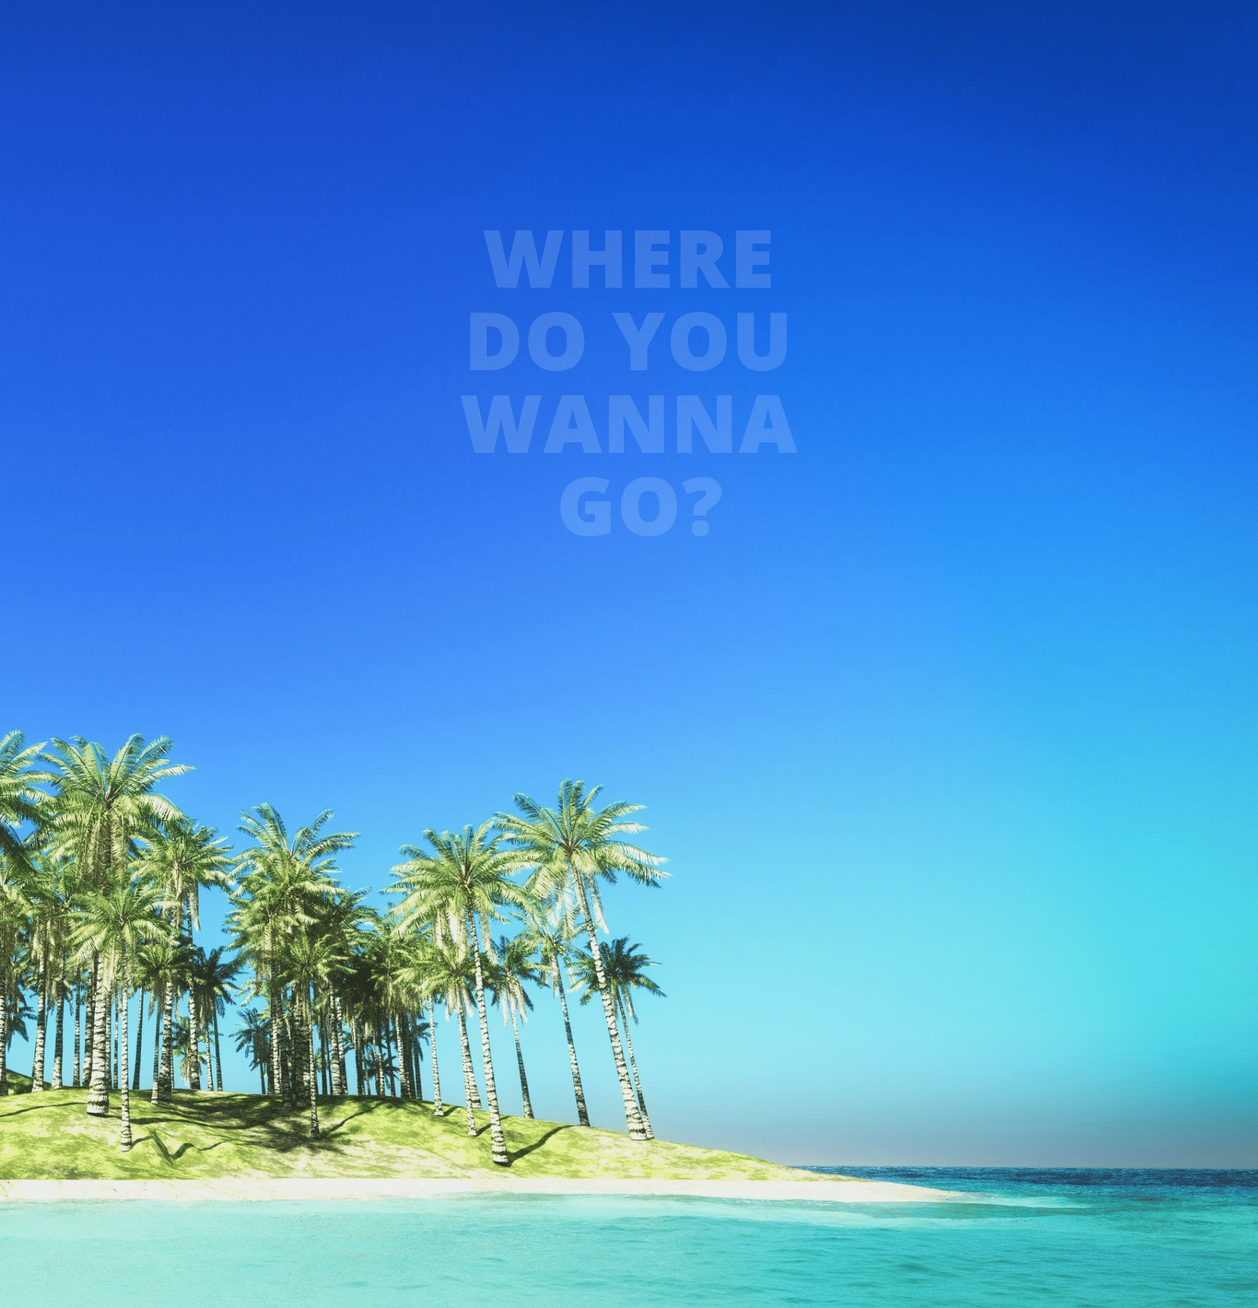
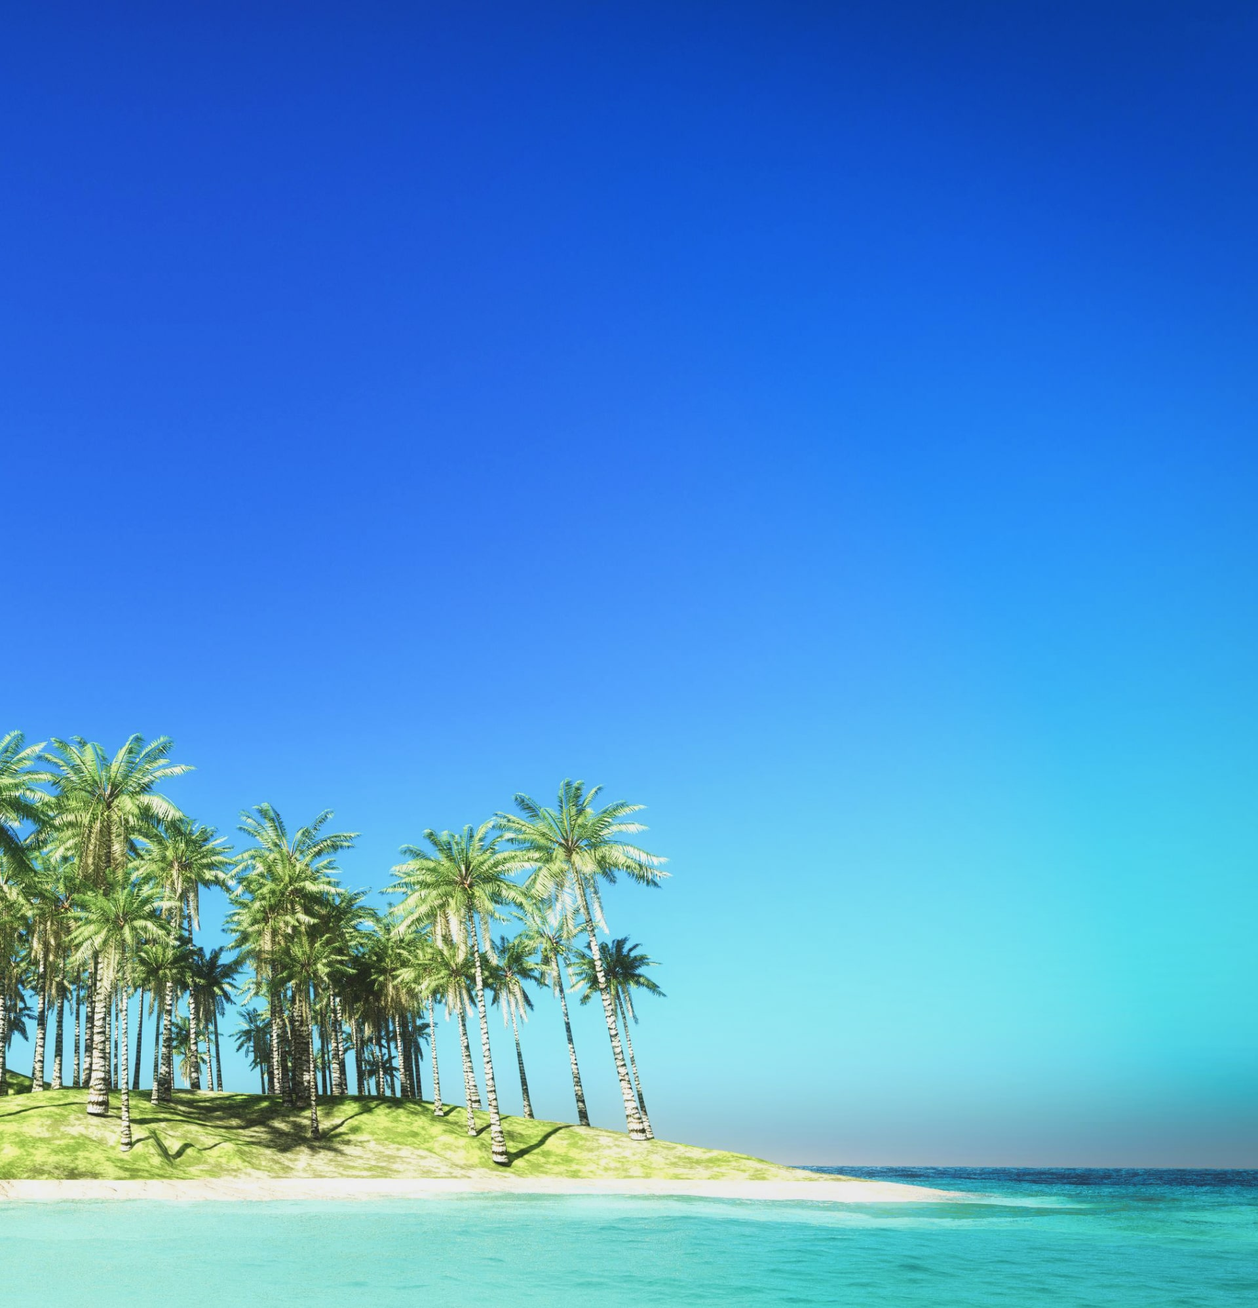
Add files via upload

Changed region(s): [[0.375, 0.1553, 0.625, 0.4349]]

diff --git a/src/css/style.min.css b/src/css/style.min.css
@@ -1,1 +1,1 @@
-*{font-family:"open Sans",sans-serif}*{margin:0;padding:0;box-sizing:border-box}.container{width:1290px;margin:0 auto}:active{outline:0}:focus{outline:0}.title{font-weight:700;font-size:42px;line-height:140%;text-align:center;text-transform:uppercase;color:#00368c;margin-bottom:30px}.title_white{color:#fff}.header{background:url(../img/bg_1.jpg) center center/cover no-repeat;min-height:850px;padding:61px 0 40px 0}.header__nav{display:flex;justify-content:flex-end}.header .link_en{display:block;width:37px;height:19px;font-weight:700;font-size:16px;text-transform:uppercase;color:#00368c;text-decoration:none;cursor:pointer;transition:.3s all}.header .link_en::after{content:url(../img/arrow.svg)}.header .link_en:hover::after{padding-left:2px}.header__title{font-weight:800;font-size:110px;text-align:center;letter-spacing:.03em;text-transform:uppercase;color:#fff;text-shadow:4px 0 0 rgba(26,66,188,.24),6px 0 0 rgba(26,66,188,.14),8px 0 0 rgba(255,255,255,.9);margin-top:270px}.header__subtitle{font-weight:400;font-size:32px;line-height:150%;text-align:center;color:#00368c}.button_wrap{position:relative;width:400px;margin:0 auto;display:flex;justify-content:center;align-items:center}.circle{position:absolute;top:10px;width:186px;height:186px;border-radius:100%;background:rgba(255,255,255,.2)}.circle_big{position:absolute;top:-30px;width:270px;height:270px;border-radius:100%;background:rgba(255,255,255,.2)}.button{display:block;position:relative;margin:57px auto 158px auto;width:398px;height:92px;background:#f6ca89;border-radius:46px;box-shadow:7px 7px 7px 0 rgba(50,50,50,.75);border-radius:46.0227px;border:none;font-weight:700;font-size:24px;line-height:120%;letter-spacing:.04em;text-transform:uppercase;color:#00368c;text-align:left;padding:0 76px;box-shadow:-5px 9px 14px 0 rgba(23,25,40,.3);transition:.3s all}.button::after{content:url(../img/arrow.svg);display:inline-block;padding-left:60px;position:absolute;top:50%;transform:translateY(-50%);transition:.3s all}.button:hover{box-shadow:none}.button:hover::after{padding-left:65px}.button:hover .circle_big{background:rgba(255,255,255,.4)}.button_submit{width:470px;height:92px;margin:0;margin-top:20px}.down{display:block;margin:68px auto 20px auto;width:80px;height:80px;border-radius:100%;border:none;background:rgba(255,255,255,.7);-webkit-backdrop-filter:blur(3px);backdrop-filter:blur(3px);transition:.3s all}.down::after{display:block;content:url(../img/arrow.svg);transform:rotate(90deg)}.down:hover{background-color:#f6ca89}.about{background:url(../img/bg2.jpg) center center/cover no-repeat;min-height:1280px;padding:0 0 40px 0}.about .container{display:flex;flex-wrap:wrap;flex:1;justify-content:flex-end}.about__wrap{width:850px;min-height:540px;margin-bottom:130px}.about__wrap__help{width:850px;height:400px;padding-top:80px;background:rgba(246,202,137,.7);border:2px solid rgba(249,226,194,.7);border-radius:32px;position:relative;z-index:1}.about__descr p{font-weight:400;font-size:18px;line-height:150%;text-align:justify;color:#00368c;margin-bottom:35px}.about__help__descr{font-weight:400;font-size:24px;line-height:150%;text-align:justify;color:#00368c;padding:5px 104px 51px 104px}.about__help__text{font-weight:700;font-size:110px;text-align:center;text-transform:uppercase;color:#fff;opacity:.75}.countries{min-height:1770px;padding-top:140px;position:relative;background:url(../img/bg_foot.jpg) center center/cover no-repeat}.countries .clouds{position:absolute;width:100%;top:-400px;z-index:0}.countries__items_wrap{height:750px}.countries__items{display:flex;justify-content:space-around}.countries__item{width:500px;display:flex;flex-direction:column;align-items:unsafe center}.countries__item__right-text{flex-direction:row;margin:10px}.countries__item__left-text{flex-direction:row-reverse;margin:10px}.countries__country{font-weight:400;font-size:24px;text-transform:uppercase;color:#fff;margin-top:10px;transition:.3s all}.countries__country_left{margin-right:20px;text-align:right}.countries__country_right{margin-left:20px}.countries__item_wrap{width:120px;height:120px;border:2px solid #fff;border-radius:100%;display:flex;justify-content:center;align-items:center;margin:10px;transition:.3s all}.countries__item_wrap img{width:100px;height:100px}.countries__item_wrap:hover{background:rgba(255,255,255,.3);border:none;width:140px;height:140px}.countries__item_wrap:hover+.countries__country{font-size:28px}.first-step{margin-top:300px;width:100%;background:url(../img/card-bg.png) left no-repeat}.first-step_wrap{display:flex;justify-content:space-around}.first-step__block{width:50%}.first-step__title{font-weight:700;font-size:42px;line-height:140%;text-transform:uppercase;color:#fff;margin:81px 0 0 0}.first-step__title span{font-weight:400}.first-step__descr{width:367px;font-weight:400;font-size:20px;line-height:150%;text-align:justify;color:#fff;margin:30px 0 0 0}.feed-form{display:flex;flex-direction:column;justify-content:start;align-items:start;width:477px;margin-left:390px}.feed-form input{width:477px;height:50px;background:0 0;margin-bottom:30px;border:none;border-bottom:1px solid #00368c;outline:0;text-align:left}.feed-form label{font-weight:400;font-size:16px;line-height:120%;letter-spacing:.1em;text-transform:uppercase;color:#00368c;text-align:left}.overlay{position:fixed;width:100%;height:100%;background-color:rgba(0,0,0,.7);top:0;display:none}.overlay #consultation{position:absolute;z-index:100;width:600px;min-height:660px;background:rgba(0,120,248,.7);border:1px solid rgba(255,255,255,.15);-webkit-backdrop-filter:blur(16px);backdrop-filter:blur(16px);border-radius:32px;top:50%;left:50%;transform:translate(-50%,-50%);padding:60px 55px 50px 55px}.overlay #consultation .feed-form{display:block;margin:0 auto}.overlay #consultation .modal__close{position:absolute;width:44px;height:44px;border-radius:100%;background-color:#f6ca89;top:-15px;right:-20px;font-size:41px;line-height:21px;color:#00368c;cursor:pointer;display:flex;justify-content:center;align-items:center}.overlay #consultation .modal__close:hover{background-color:#fff}.overlay #consultation .modal__subtitle{font-weight:600;font-size:36px;line-height:140%;text-align:center;text-transform:uppercase;color:#fff}.overlay #consultation .button_submit{width:470px;height:60px}.overlay #consultation .error{border:1px solid red}.overlay #consultation label.error{border:none;margin-bottom:15px}.overlay #consultation input,.overlay #consultation label{color:#fff}.footer{height:60px;display:flex;justify-content:center;align-items:center;background:#00368c;font-weight:400;font-size:14px;color:#fff}
+*{font-family:"open Sans",sans-serif}*{margin:0;padding:0;box-sizing:border-box}.container{width:1290px;margin:0 auto}:active{outline:0}:focus{outline:0}.title{font-weight:700;font-size:42px;line-height:1.4;text-align:center;text-transform:uppercase;color:#00368c;margin-bottom:30px}.title_white{color:#fff}.header{background:url(../img/main_bg.png) center center/cover no-repeat;min-height:850px;padding:61px 0 40px 0}.header__wrap{position:relative}.header__nav{display:flex;justify-content:flex-end}.header__clouds{position:relative;margin:0 auto}.header__clouds img{position:absolute;bottom:-110px;left:-40px;z-index:1}.header .link_en{display:block;width:37px;height:19px;font-weight:700;font-size:16px;text-transform:uppercase;color:#00368c;text-decoration:none;cursor:pointer;transition:.3s all}.header .link_en::after{content:url(../img/arrow.svg)}.header .link_en:hover::after{padding-left:2px}.header__title{margin-top:200px}.header__subtitle{font-weight:400;font-size:32px;text-align:center;color:#00368c;position:absolute;z-index:2;left:50%;transform:translateX(-50%)}.button_wrap{position:relative;width:400px;margin:50px auto 0 auto;display:flex;justify-content:center;align-items:center}.circle{position:absolute;top:10px;width:186px;height:186px;border-radius:100%;background:rgba(255,255,255,.2)}.circle_big{position:absolute;top:-30px;width:270px;height:270px;border-radius:100%;background:rgba(255,255,255,.2)}.button{display:block;position:relative;margin:57px auto 125px auto;width:398px;height:92px;background:#f6ca89;border-radius:46px;border:none;font-weight:700;font-size:24px;letter-spacing:.04em;text-transform:uppercase;color:#00368c;padding:0 76px;box-shadow:-5px 9px 14px 0 rgba(23,25,40,.3);display:flex;justify-content:space-between;align-items:center;transition:.3s all}.button img{display:inline-block;width:7px;height:12px}.button:hover{box-shadow:none}.button:hover~.circle_big{background:rgba(255,255,255,.4)}.button_submit{width:470px;height:92px;margin:0;margin-top:20px;padding:0 50px}.down{display:block;margin:0 auto 20px auto;width:80px;height:80px;border-radius:100%;border:none;background:rgba(255,255,255,.7);-webkit-backdrop-filter:blur(3px);backdrop-filter:blur(3px);transition:.3s all}.down::after{display:block;content:url(../img/arrow.svg);transform:rotate(90deg)}.down:hover{background-color:#f6ca89}.about{background:url(../img/man_bg-min.png) center center/cover no-repeat;min-height:1280px;padding:30px 0 40px 0}.about .container{display:flex;flex-wrap:wrap;flex:1;justify-content:flex-end}.about__wrap{width:850px;min-height:540px;margin-bottom:130px}.about__wrap__help{width:850px;height:400px;padding:80px 22px 0 22px;background:rgba(246,202,137,.7);border:2px solid rgba(249,226,194,.7);border-radius:32px;position:relative;z-index:1}.about__descr p{font-weight:400;font-size:18px;line-height:1.5;text-align:justify;color:#00368c;margin-bottom:22px}.about__help__descr{font-weight:400;font-size:24px;line-height:1.5;text-align:justify;color:#00368c;padding:5px 100px 0 100px}.about__help__text{position:absolute;bottom:0;line-height:.7;font-weight:700;font-size:120px;text-transform:uppercase;color:#fff}.countries{min-height:1996px;padding:140px 0 194px 0;position:relative;background:url(../img/bg_foot.jpg) center center/cover no-repeat}.countries__items_wrap{height:750px;position:relative}.countries__fon-text{position:absolute;width:550px;font-weight:800;font-size:120px;line-height:1.05;text-align:center;letter-spacing:.03em;text-transform:uppercase;color:#fff;opacity:.15;left:50%;transform:translate(-50%);top:10%;z-index:1}.countries__items{display:flex;justify-content:space-around}.countries__item{width:500px;display:flex;flex-direction:column;align-items:unsafe center}.countries__item__right-text{flex-direction:row;margin:10px}.countries__item__left-text{flex-direction:row-reverse;margin:10px}.countries__country{font-weight:400;font-size:24px;text-transform:uppercase;color:#fff;margin-top:10px;transition:.3s all}.countries__country_left{margin-right:20px;text-align:right}.countries__country_right{margin-left:20px}.countries__item_wrap{width:120px;height:120px;border:2px solid #fff;border-radius:100%;display:flex;justify-content:center;align-items:center;margin:10px;transition:.3s all;cursor:pointer}.countries__item_wrap img{width:100px;height:100px}.countries__item_wrap:hover{background:rgba(255,255,255,.3);border:none;width:140px;height:140px}.countries__item_wrap:hover+.countries__country{font-size:28px}.first-step{margin-top:300px;width:100%;background:url(../img/card-bg.png) left no-repeat}.first-step_wrap{display:flex;justify-content:center;align-items:center}.first-step__title{font-weight:700;font-size:42px;line-height:1.4;text-transform:uppercase;color:#fff}.first-step__title span{font-weight:400}.first-step__descr{width:367px;font-weight:400;font-size:20px;line-height:1.5;text-align:justify;color:#fff;margin:25px 0 0 0}.feed-form{display:flex;flex-direction:column;justify-content:start;align-items:start;width:477px;margin-left:286px}.feed-form .input{width:477px;height:50px;background:0 0;margin-bottom:30px;border:none;border-bottom:1px solid #00368c;outline:0;text-align:left;font-weight:400;font-size:20px;line-height:120%;letter-spacing:.1em;color:rgba(38,38,38,.6)}.feed-form .input .button.button__submit{width:470px;height:92px;background:#f6ca89,url(../img/arrow.svg);border-radius:46px;padding:0 50px}.feed-form .label{font-weight:400;font-size:16px;line-height:1.2;letter-spacing:.1em;text-transform:uppercase;color:#00368c;text-align:left}.overlay{position:fixed;width:100%;height:100%;background-color:rgba(0,0,0,.7);top:0;display:none;z-index:100}.overlay #consultation{position:absolute;width:600px;min-height:660px;background:rgba(0,120,248,.7);border:1px solid rgba(255,255,255,.15);-webkit-backdrop-filter:blur(16px);backdrop-filter:blur(16px);border-radius:32px;top:50%;left:50%;transform:translate(-50%,-50%);padding:60px 55px 50px 55px}.overlay #consultation .feed-form{display:block;margin:0 auto}.overlay #consultation .modal__close{position:absolute;width:44px;height:44px;border-radius:100%;background-color:#f6ca89;top:-15px;right:-20px;font-size:41px;line-height:21px;color:#00368c;cursor:pointer;display:flex;justify-content:center;align-items:center}.overlay #consultation .modal__close:hover{background-color:#fff}.overlay #consultation .modal__subtitle{font-weight:600;font-size:36px;line-height:140%;text-align:center;text-transform:uppercase;color:#fff;margin-bottom:50px}.overlay #consultation .button_submit{width:470px;height:60px;padding:0 50px;font-size:16px;background-color:#f6ca89}.overlay #consultation .button_submit::after{padding-left:220px}.overlay #consultation .error{border:1px solid red}.overlay #consultation .label.error{display:block;border:none;font-size:12px;margin-bottom:15px;color:red}.overlay #consultation .input,.overlay #consultation .label{color:#fff}.footer{height:60px;display:flex;justify-content:center;align-items:center;background:#00368c;font-weight:400;font-size:14px;color:#fff}@media (min-width:1200px) and (max-width:1359px){.container{width:1100px;margin:0 auto}.first-step{background:0 0;min-height:450px}.first-step__block{width:450px;height:450px;background:rgba(0,120,248,.7);border:1px solid rgba(255,255,255,.15);border-radius:46px;display:flex;flex-direction:column;justify-content:center;align-items:center}.first-step__title{margin-top:0}.feed-form{margin-left:50px}}@media (min-width:992px) and (max-width:1199px){.container{width:900px;margin:0 auto}.header{min-height:700px;padding:61px 0 40px 0}.header__title{font-weight:800;font-size:100px;margin-top:100px}.about{min-height:1200px;padding:0 0 40px 0}.about .container{justify-content:center}.first-step{background:0 0;min-height:450px}.first-step .container{width:900px;margin:0 auto}.first-step__block{width:400px;height:450px;background:rgba(0,120,248,.7);border:1px solid rgba(255,255,255,.15);border-radius:46px;display:flex;flex-direction:column;justify-content:center;align-items:center;padding:0 30px}.first-step__title{margin-top:0;font-size:35px}.feed-form{margin-left:50px}.feed-form label{font-weight:700}}@media (min-width:768px) and (max-width:991px){.container{width:700px;margin:0 auto}.title,.title_white{font-size:40px}.header{min-height:700px;padding:61px 0 40px 0}.header__title{font-weight:800;font-size:100px;margin-top:100px}.about__wrap{width:850px;min-height:540px;margin-bottom:80px}.about__help__text{font-weight:700;font-size:75px;text-align:center;text-transform:uppercase;color:#fff;opacity:.75}.countries .clouds{display:none}.countries__item_wrap{width:100px;height:100px}.countries__item_wrap img{width:80px;height:80px}.countries__item_wrap:hover{width:120px;height:120px}.countries__country{font-size:18px}.countries__item{width:400px}.countries__item_wrap:hover+.countries__country{font-size:20px}.first-step{margin-top:100px;background:0 0}.first-step .container{width:700px;margin:0 auto}.first-step_wrap{display:flex;flex-direction:column;flex:1;justify-content:flex-end;align-items:flex-end}.first-step__block{width:500px;height:450px;background:rgba(0,120,248,.7);border:1px solid rgba(255,255,255,.15);border-radius:46px;display:flex;flex-direction:column;justify-content:center;align-items:center;padding:0 30px}.first-step__title{margin-top:0;font-size:35px}.first-step__descr{font-size:18px}.feed-form{margin:100px 0}.feed-form label{font-weight:700;text-align:right}}@media (max-width:767px){.container{width:400px;margin:0 auto}.title,.title_white{font-size:30px}.header{min-height:700px;padding:61px 0 40px 0}.header__title{font-weight:800;font-size:60px;letter-spacing:.04em;margin-top:100px}.header__subtitle{font-size:25px}.button_wrap{width:350px}.button{width:350px;height:82px}.about__wrap{width:850px;min-height:540px;margin-bottom:80px}.about__help__text{display:none}.about .about__help__descr{font-size:22px;padding:5px 20px 51px 20px}.countries .clouds{display:none}.countries__item_wrap{width:100px;height:100px}.countries__item_wrap img{width:80px;height:80px}.countries__item_wrap:hover{width:120px;height:120px}.countries__country{font-size:14px;margin-top:5px}.countries__country_left{margin-right:5px}.countries__country_right{margin-left:5px}.countries__item{width:300px}.countries__item__right-text{flex-direction:column;margin:5px}.countries__item__left-text{flex-direction:column;margin:5px}.countries__item_wrap:hover+.countries__country{font-size:16px}.first-step{margin-top:50px;background:0 0}.first-step .container{width:400px;margin:0 auto}.first-step_wrap{display:flex;flex-direction:column;flex:1;justify-content:flex-end;align-items:flex-end}.first-step__block{width:400px;height:450px;background:rgba(0,120,248,.7);border:1px solid rgba(255,255,255,.15);border-radius:46px;display:flex;flex-direction:column;justify-content:center;align-items:center;padding:0 30px}.first-step__title{margin-top:0;font-size:35px}.first-step__descr{font-size:18px}.feed-form{margin:100px 0;width:400px}.feed-form input{width:400px;text-align:right}.feed-form label{font-weight:700;text-align:right}.button_submit{display:block;margin:0 auto;width:350px;height:82px;font-size:20px}}@media (max-width:480px){.container{width:290px;margin:0 auto}.title,.title_white{font-size:28px}.header{min-height:700px;padding:40px 0 40px 0}.header__title{font-weight:800;font-size:40px;letter-spacing:.08em;margin-top:100px}.header__subtitle{font-size:22px;line-height:100%;margin-top:20px}.button_wrap{width:280px;margin-top:30px}.button{width:280px;height:65px;font-size:16px;padding:0 40px}.about__wrap{width:850px;min-height:540px;margin-bottom:80px}.about__help__text{display:none}.about__descr p{line-height:120%;margin-bottom:20px}.about__help__descr{font-size:18px;line-height:120%}.countries .clouds{display:none}.countries__item_wrap{width:100px;height:100px}.countries__item_wrap img{width:80px;height:80px}.countries__item_wrap:hover{width:120px;height:120px}.countries__country{font-size:14px;margin-top:5px}.countries__country_left{margin-right:5px}.countries__country_right{margin-left:5px}.countries__item{width:300px}.countries__item__right-text{flex-direction:column;margin:5px}.countries__item__left-text{flex-direction:column;margin:5px}.countries__item_wrap:hover+.countries__country{font-size:16px}.first-step{margin-top:0;background:0 0}.first-step .container{width:290px;margin:0 auto}.first-step_wrap{display:flex;flex-direction:column;flex:1;justify-content:flex-end;align-items:flex-end}.first-step__block{width:290px;height:300px}.first-step__title{margin-top:0;font-size:25px}.first-step__descr{width:250px;font-size:17px}.feed-form{margin:100px 0;width:290px}.feed-form input{width:290px;text-align:right}.feed-form label{font-weight:700;text-align:right}}

diff --git a/src/index.html b/src/index.html
@@ -6,6 +6,7 @@
     <title>Relocation</title>
     <meta name="description" content="Relocation">
     <link rel="preconnect" href="https://fonts.gstatic.com">
+    <link href="https://fonts.googleapis.com/css2?family=Open+Sans:wght@400;600;700;800&display=swap" rel="stylesheet"> 
     <link rel="stylesheet" href="css/style.min.css">
 </head>
 <body>
@@ -16,13 +17,16 @@
               en
           </a>
           </nav>
-         <h1 class="header__title">Offshore dream</h1>
+          <div class="header__wrap">
+            <div class="header__title"><img src="img/heading.svg" alt="offshore dreams"></div>
+            <div class="header__clouds"><img src="img/header_cloud.png" alt="clouds"></div>
+          </div>
          <h2 class="header__subtitle">Get your freedom and relocate asap</h2>
          <div class="button_wrap">
           <div class="circle"></div>
           <div class="circle_big"></div>
-         <button data-modal="consultation" class="button">Learn more</button>
-
+         <button data-modal="consultation" class="button"><span>Learn more </span><img src="img/arrow.svg" alt="arrow"></button>
+          
         </div>
          <button id="down" class="down"></button>
 
@@ -56,11 +60,11 @@
         </div>
      </section>
 <section class="countries">
-    <img class="clouds" src="img/clouds-min.png" alt="clouds">
 
   <h2 class="title title_white">Where do you wanna go?</h2>
   <div class="container">
 <div class="countries__items_wrap">
+  <div class="countries__fon-text">Where do you wanna go?</div>
   <div class="countries__items">
     <div class="countries__item">
       <div class="countries__item_wrap">
@@ -117,34 +121,32 @@
           <div class="first-step__descr">Will be the application you sent. Fill out the forms, send your application and we will contact you as soon as possible!</div>
         </div>
         <form class="feed-form" id="consultation-form">
-          <label> enter your name  <input name="name" placeholder="John Doe" type="text"></label>
-          <label> enter your phone number <input name="phone" placeholder="+0 (___) ___ __ __"></label>
-          <label> enter your email <input name="email" placeholder="yourmail@gmail.com" type="email"></label> 
+          <label class="label"> enter your name  <input class="input" name="name" placeholder="John Doe" type="text"></label>
+          <label class="label"> enter your phone number <input class="input" name="phone" placeholder="+0 (___) ___ __ __"></label>
+          <label class="label"> enter your email <input class="input" name="email" placeholder="yourmail@gmail.com" type="email"></label> 
          <!--  <input type="submit" value="заказать консультацию"> -->
-         <button class="button button_submit" >send a request</button>
+         <input type="submit" class="button button_submit" value="Send a Request &nbsp;&nbsp;&nbsp;&nbsp;&nbsp;&nbsp;&nbsp;&nbsp;&nbsp;&nbsp; &#8250;"></input>
       </form>
       </div>
   </div>
 </div>
 </section>
-
-
 <div class="overlay">
   <div class="modal" id="consultation">
       <div class="modal__close">
           &times;
       </div>
-      <div class="modal__subtitle">Leave a request 
+      <div class="modal__subtitle">Leave a request <br>
         for a call back </div>
         <form class="feed-form">
-          <label> enter your name </label> <input name="name" placeholder="John Doe" type="text">
-          <label> enter your phone number </label> <input name="phone" placeholder="+0 (___) ___ __ __">
-          <label> enter your email </label> <input name="email" placeholder="yourmail@gmail.com" type="email">
+          <label class="label"> enter your name </label> <input class="input"  name="name" placeholder="John Doe" type="text">
+          <label class="label"> enter your phone number </label> <input class="input" name="phone" placeholder="+0 (___) ___ __ __">
+          <label class="label"> enter your email </label> <input class="input" name="email" placeholder="yourmail@gmail.com" type="email">
          <!--  <input type="submit" value="заказать консультацию"> -->
-         <button data-modal="consultation" class="button button_submit" >send a request</button></form>
+         <input type="submit" data-modal="consultation" class="button button_submit button_submit_modal" value="Send a Request &nbsp;&nbsp;&nbsp;&nbsp;&nbsp;&nbsp;&nbsp;&nbsp;&nbsp;&nbsp;&nbsp;&nbsp;&nbsp;&nbsp;&nbsp;&nbsp;&nbsp;&nbsp;&nbsp;&nbsp;&nbsp;&nbsp;&nbsp;&nbsp;&nbsp;&nbsp;&nbsp;&nbsp;&nbsp; &#8250;"></input></form>
   </div>
+  
 </div>
-
 <footer class="footer"> 
   © 2021 All rights reserved.
 </footer>
